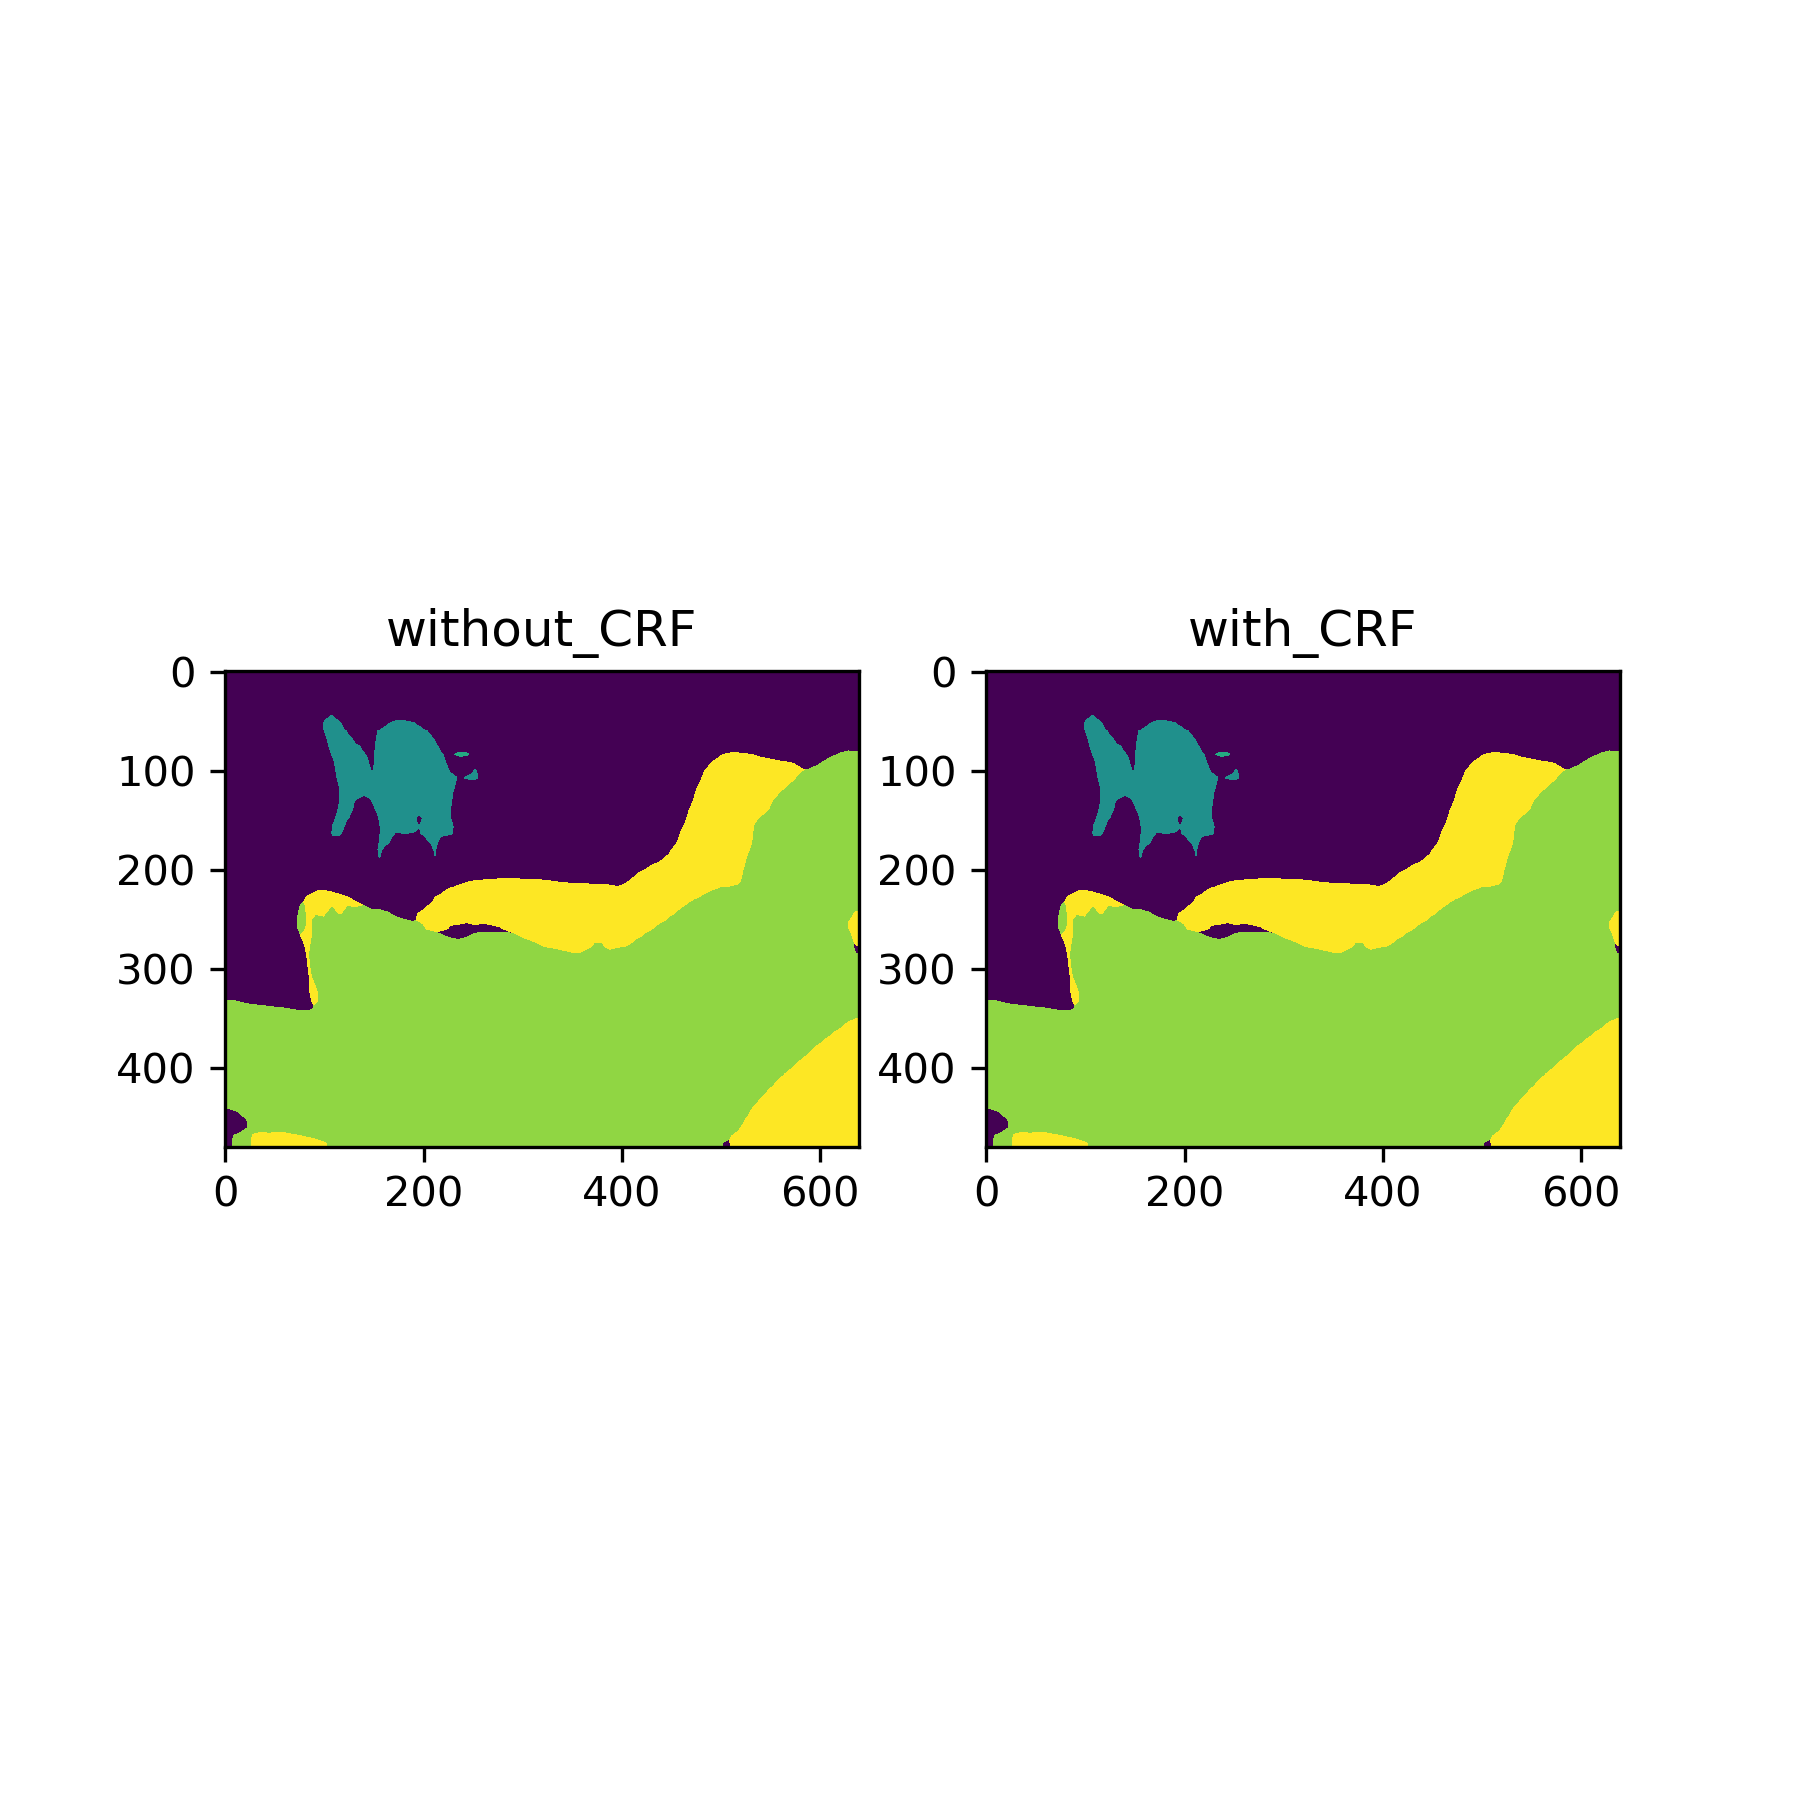
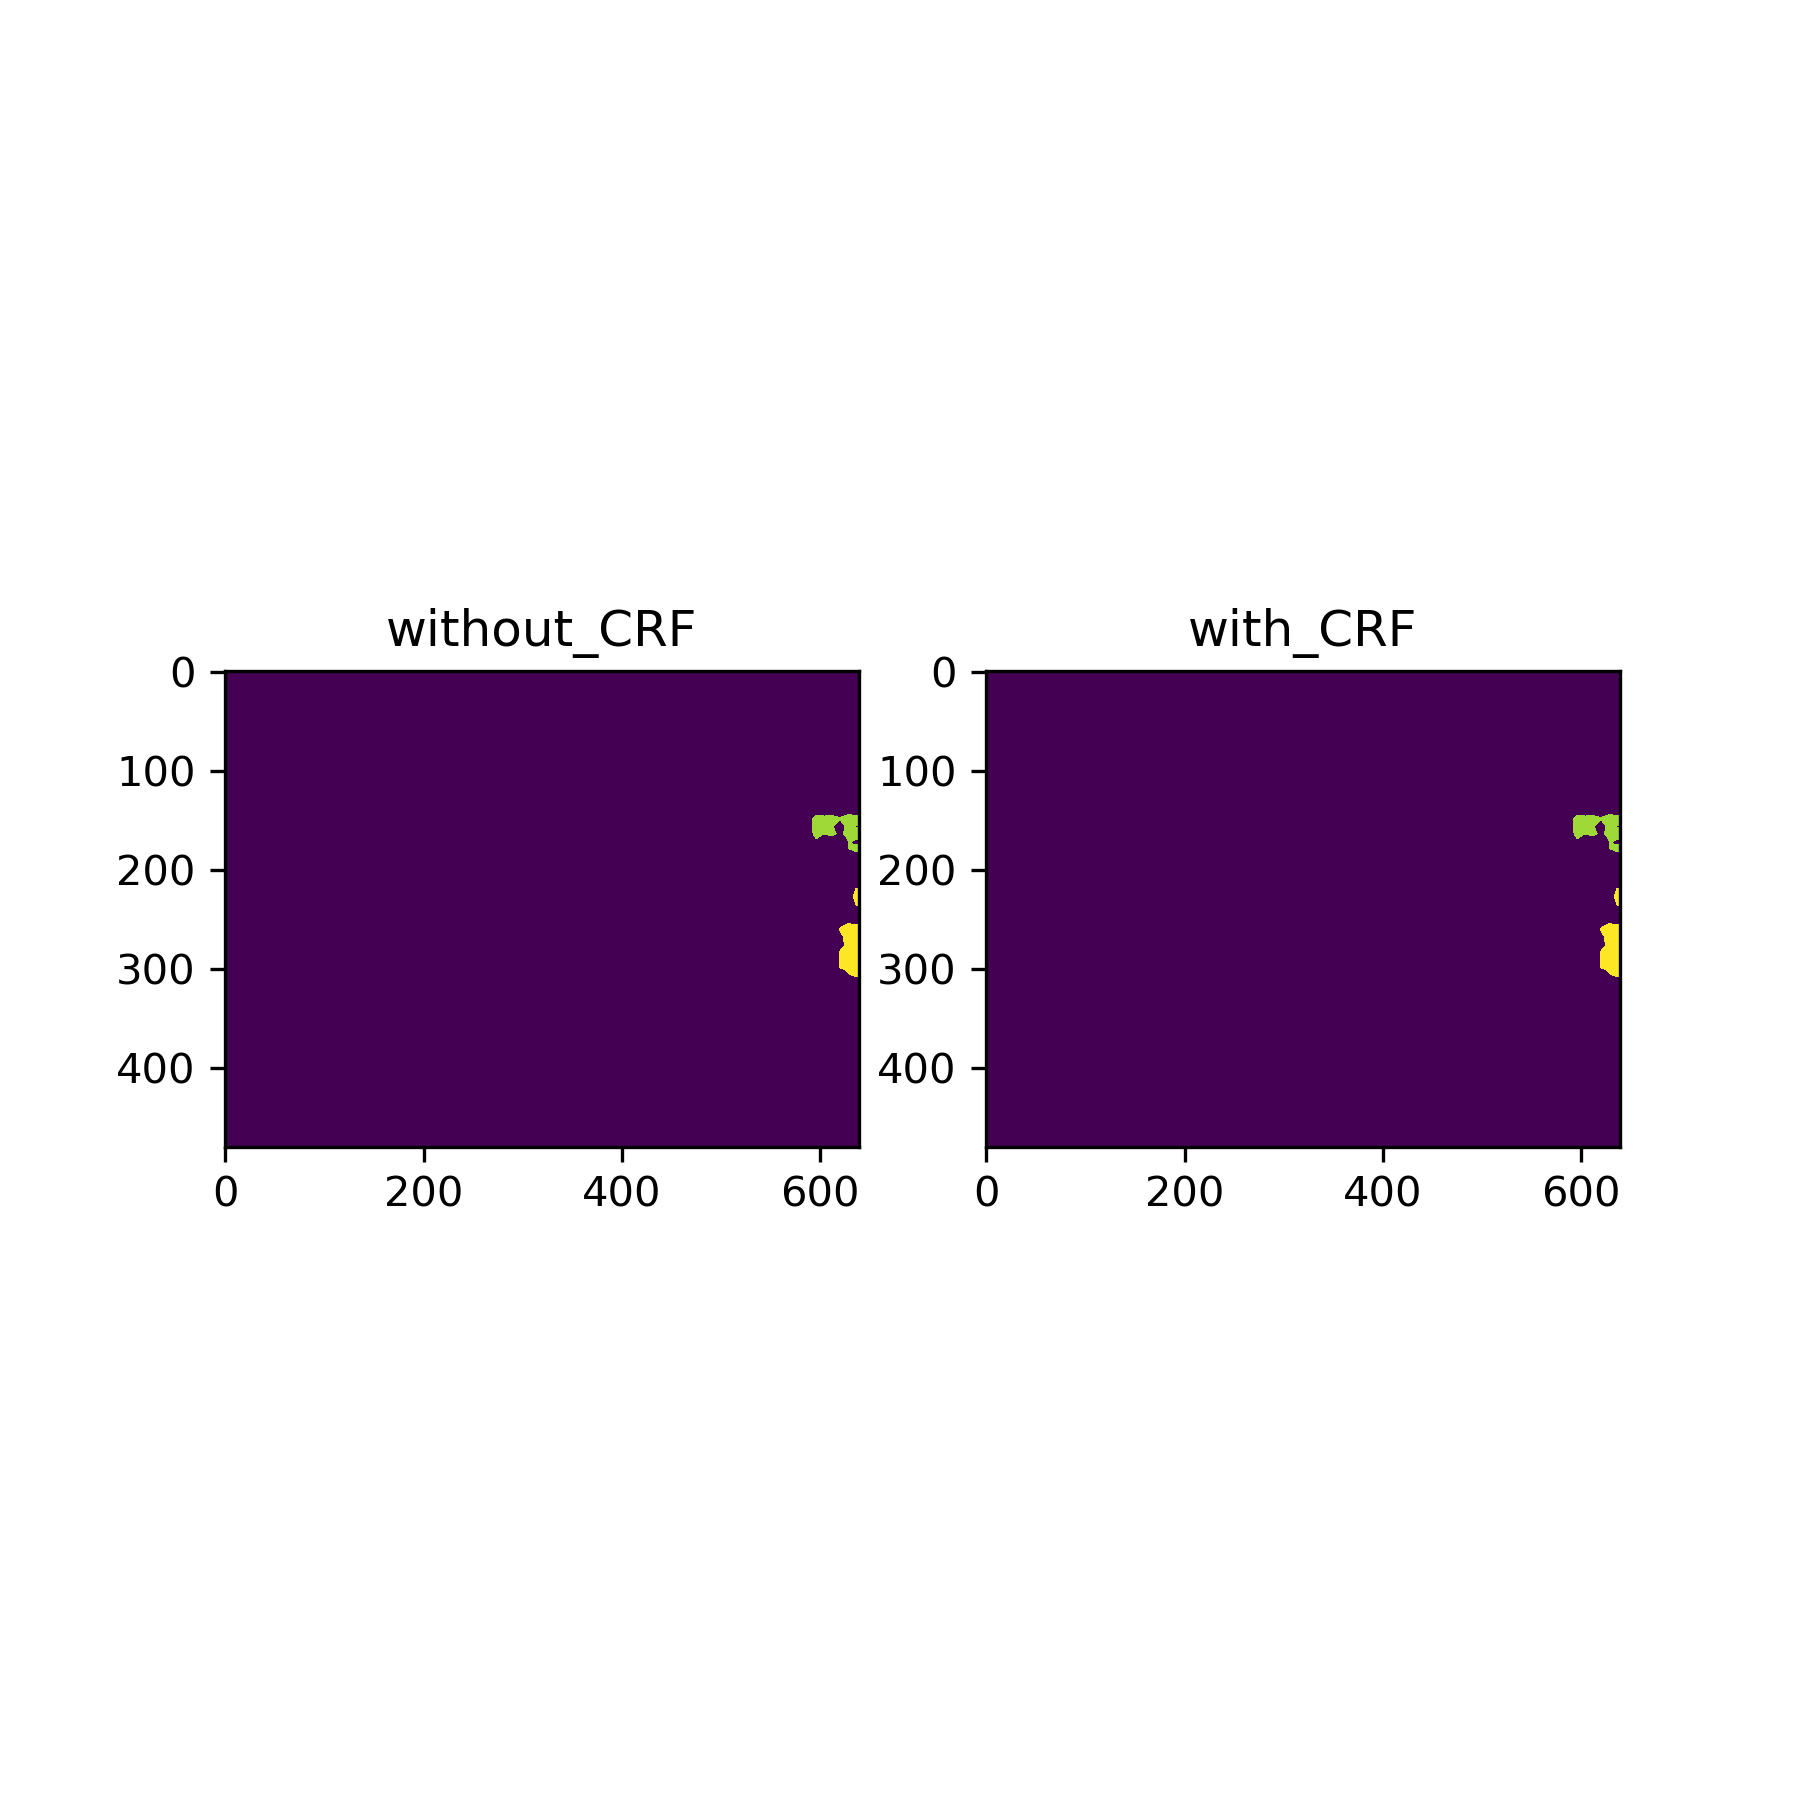
added advanced skills

Changed region(s): [[0.5289, 0.4044, 0.9022, 0.6533], [0.1244, 0.4044, 0.4978, 0.6533], [0.1867, 0.4044, 0.2489, 0.4667]]

diff --git a/DeepLabv3_CRF_demo/srcs/segment_model.py b/DeepLabv3_CRF_demo/srcs/segment_model.py
@@ -182,6 +182,17 @@ def deeplabv3_resnet101(pretrained=False, progress=True,
     return _load_model('deeplabv3', 'resnet101', pretrained, progress, num_classes, aux_loss, **kwargs)
 
 
+def fcn_resnet101(pretrained=False, progress=True,
+                        num_classes=21, aux_loss=None, **kwargs):
+    """Constructs a DeepLabV3 model with a ResNet-101 backbone.
+    Args:
+        pretrained (bool): If True, returns a model pre-trained on COCO train2017 which
+            contains the same classes as Pascal VOC
+        progress (bool): If True, displays a progress bar of the download to stderr
+    """
+    return _load_model('fcn', 'resnet101', pretrained, progress, num_classes, aux_loss, **kwargs)
+
+
 if __name__=="__main__":
 
     import torch

diff --git a/DeepLabv3_CRF_demo/inference_CRF.py b/DeepLabv3_CRF_demo/inference_CRF.py
@@ -8,7 +8,7 @@ import matplotlib.pyplot as plt
 # plt.switch_backend('agg')
 import cv2
 import shutil
-from srcs.segment_model import deeplabv3_resnet101
+from srcs.segment_model import deeplabv3_resnet101, fcn_resnet101
 from srcs.DenseCRF import my_post_CRF
 
 
@@ -19,10 +19,11 @@ input_transform = transforms.Compose([
     transforms.Normalize(mean=[0.485, 0.456, 0.406], std=[0.229, 0.224, 0.225]),
 ])
 
-model = deeplabv3_resnet101(pretrained=True)
+# model = deeplabv3_resnet101(pretrained=True)
+model = fcn_resnet101(pretrained=True)
 model.eval()
 
-images = cv2.imread("test_image.jpg", -1)
+images = cv2.imread("12.jpg", -1)
 images = cv2.cvtColor(images, cv2.COLOR_BGR2RGB)
 images = input_transform(images)
 
